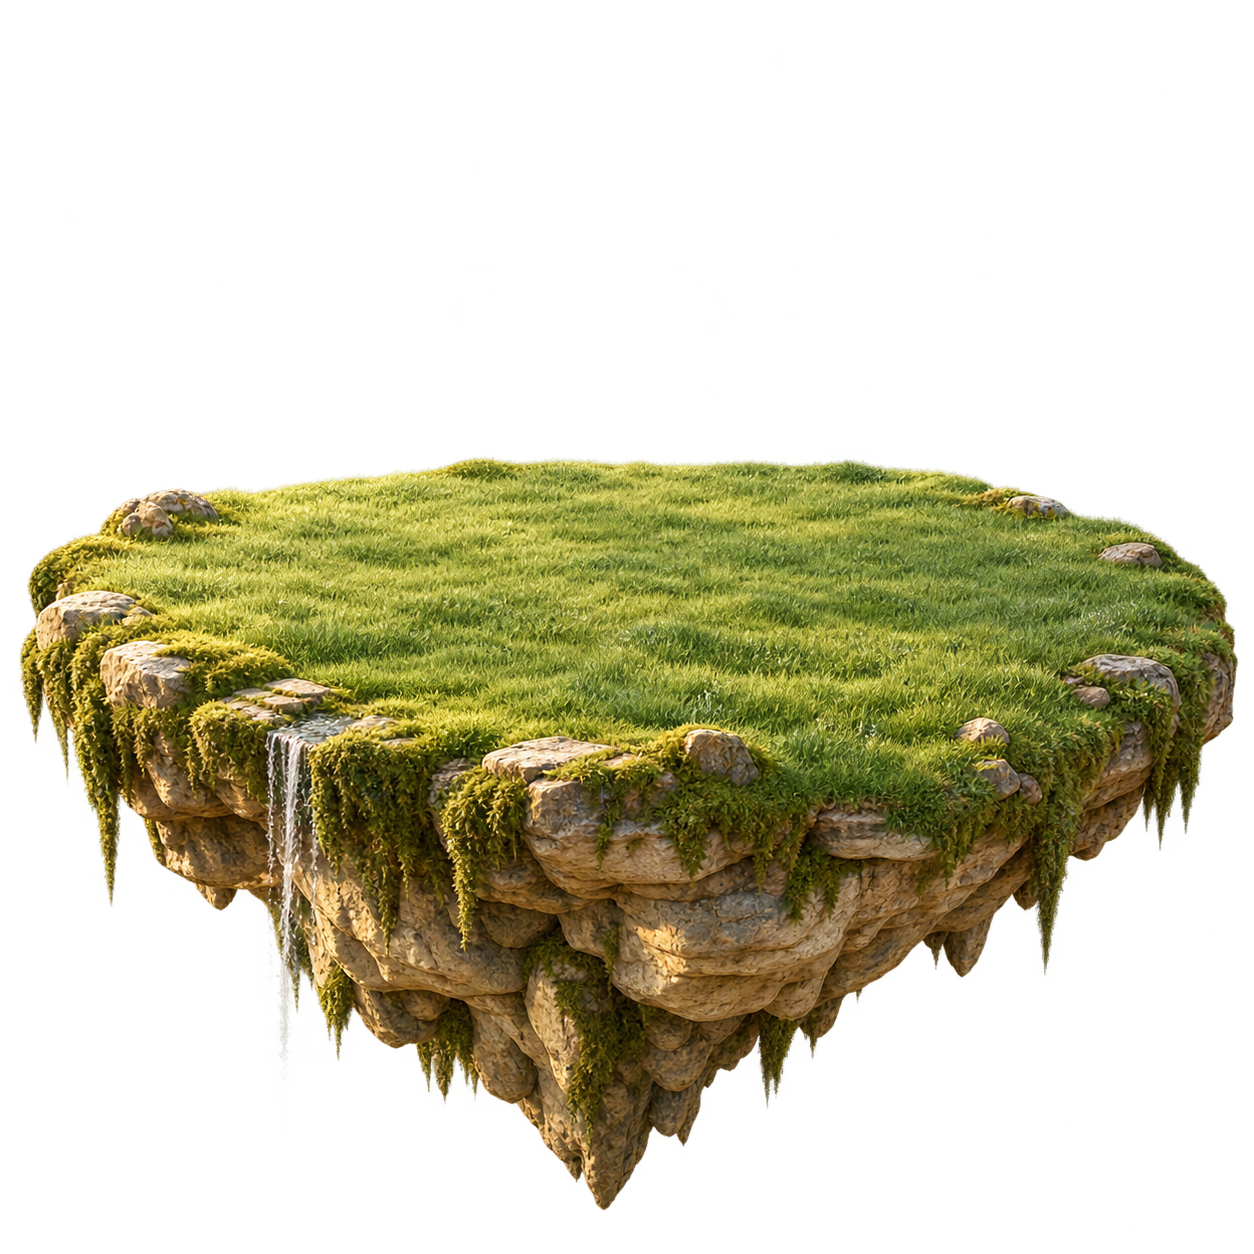
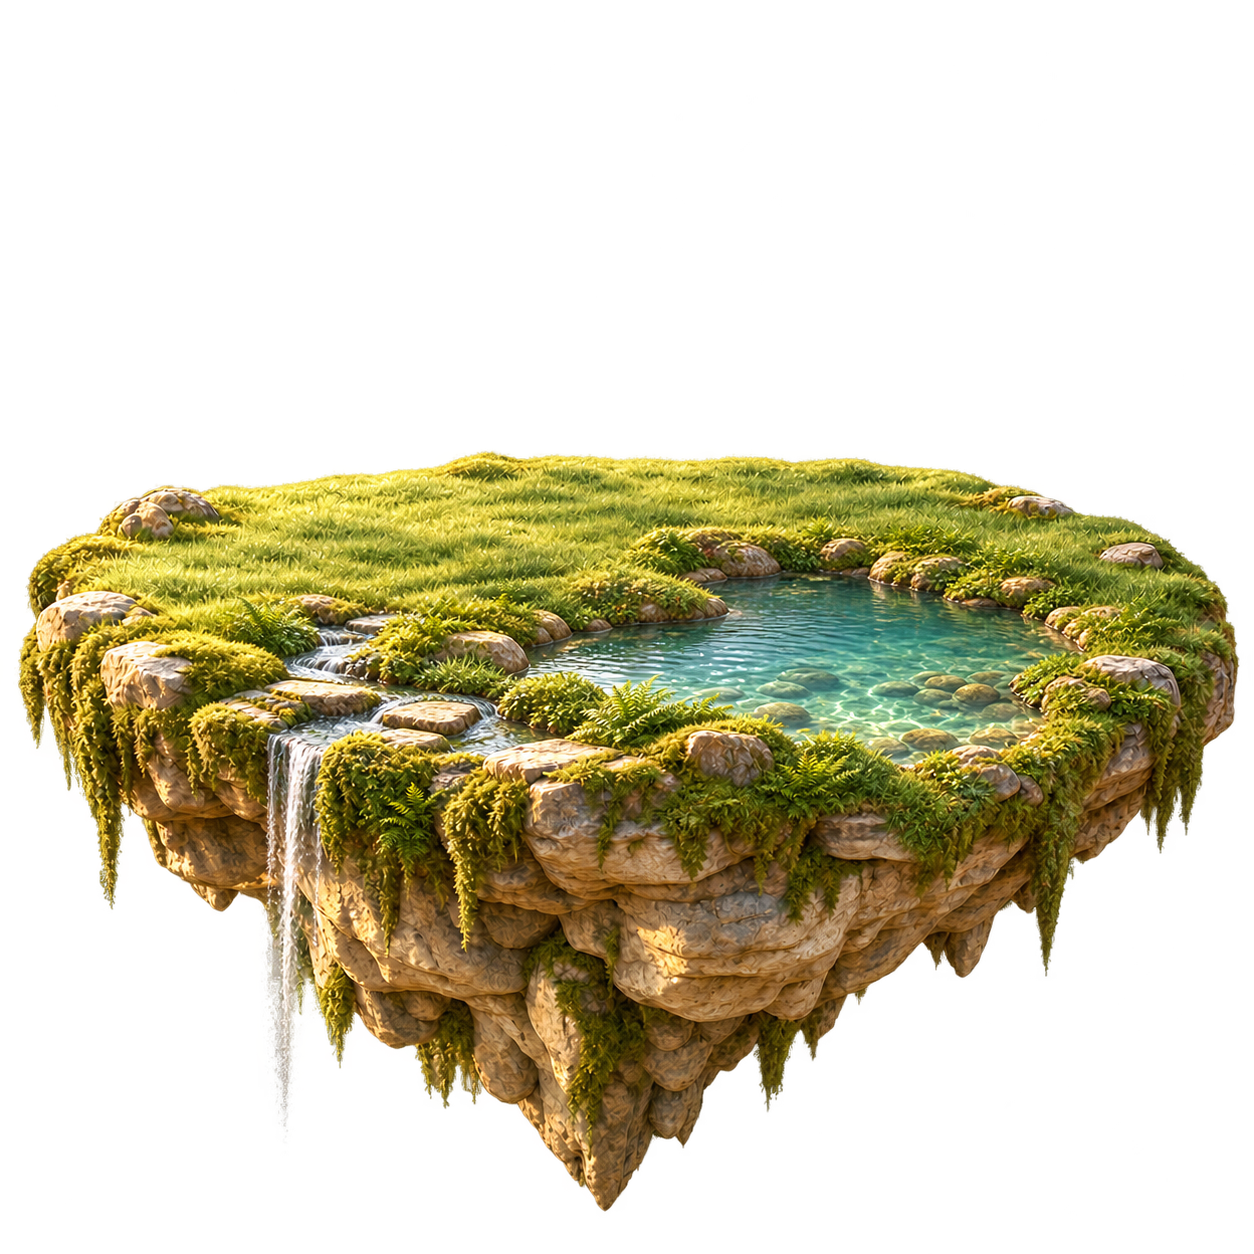
Unify the floating garden around a pond, stream and waterfall

Changed region(s): [[0.0, 0.3421, 0.9952, 0.9641]]

diff --git a/src/components/garden/FloatingGarden.tsx b/src/components/garden/FloatingGarden.tsx
@@ -26,15 +26,16 @@ export type GardenPlantVisual = {
   completions: number;
   title: string;
 };
+// Dry banks surround a shared watercourse; the center stays open to the pond.
 export const PLOTS = [
-  { x: 190, y: 245 },
-  { x: 365, y: 267 },
-  { x: 110, y: 293 },
-  { x: 275, y: 300 },
-  { x: 420, y: 292 },
-  { x: 70, y: 253 },
-  { x: 295, y: 224 },
-  { x: 190, y: 319 },
+  { x: 180, y: 238 },
+  { x: 385, y: 215 },
+  { x: 85, y: 265 },
+  { x: 230, y: 317 },
+  { x: 455, y: 283 },
+  { x: 70, y: 235 },
+  { x: 285, y: 210 },
+  { x: 350, y: 321 },
 ];
 const ART = {
   tree: require("../../../assets/garden/oak.png"),
@@ -103,11 +104,16 @@ function GrowingPlant({
 }) {
   const p = PLOTS[index]!;
   const tree = plant.kind === "tree" || plant.kind === "blossom";
-  const size =
-    (tree ? (plant.kind === "tree" ? 230 : 195) : 128) *
-    (index >= 5 ? 0.65 : 1);
+  const depth = index >= 5 ? 0.65 : 1;
+  // Keep even a mature tree inside its bank when a goal owns an edge plot.
+  const size = Math.min(
+    (tree ? (plant.kind === "tree" ? 230 : 195) : 128) * depth,
+    (2 * Math.min(p.x, 520 - p.x)) / 1.16,
+    p.y / (0.94 * 1.16),
+  );
   const sprout = plant.stage < 2;
-  const seedSize = 64 * (index >= 5 ? 0.65 : 1);
+  const youngScale = tree ? gardenGrowth(3) : 0.25 + 0.75 * gardenGrowth(3);
+  const seedSize = Math.min(64 * depth, size * youngScale * 0.9);
   const box = sprout ? seedSize : size;
   const growth = (count: number) =>
     tree ? gardenGrowth(count) : 0.25 + 0.75 * gardenGrowth(count);
@@ -163,6 +169,42 @@ function GrowingPlant({
         />
       )}
     </Animated.View>
+  );
+}
+/** Soft contact shadows join each growing plant to the same sunlit ground. */
+function PlantGround({ plants }: { plants: GardenPlantVisual[] }) {
+  return (
+    <Svg
+      pointerEvents="none"
+      accessible={false}
+      style={StyleSheet.absoluteFill}
+      width="100%"
+      height="100%"
+      viewBox="0 0 520 510"
+    >
+      <Defs>
+        <RadialGradient id="plant-contact">
+          <Stop offset="0" stopColor="#33432B" stopOpacity=".38" />
+          <Stop offset=".55" stopColor="#405336" stopOpacity=".16" />
+          <Stop offset="1" stopColor="#405336" stopOpacity="0" />
+        </RadialGradient>
+      </Defs>
+      {plants.slice(0, 8).map((plant, index) => {
+        if (!plant.stage) return null;
+        const plot = PLOTS[index]!;
+        const size = Math.min(1.1, 0.3 + gardenGrowth(plant.completions));
+        return (
+          <Ellipse
+            key={plant.id}
+            cx={plot.x + 5}
+            cy={plot.y + 1}
+            rx={36 * size}
+            ry={11 * size}
+            fill="url(#plant-contact)"
+          />
+        );
+      })}
+    </Svg>
   );
 }
 function GrowthLight({
@@ -285,7 +327,7 @@ export const FloatingGarden = React.memo(function FloatingGarden({
   return (
     <View
       accessibilityRole="image"
-      accessibilityLabel={`Your floating garden. ${summary}`}
+      accessibilityLabel={`Your floating garden. ${summary} A pond and stream flow between the grassy banks into a waterfall.`}
       style={[styles.frame, compact && styles.compact]}
     >
       <Svg
@@ -332,6 +374,34 @@ export const FloatingGarden = React.memo(function FloatingGarden({
           fadeDuration={0}
           accessibilityElementsHidden
         />
+        <Animated.View
+          pointerEvents="none"
+          style={[
+            StyleSheet.absoluteFill,
+            {
+              opacity: float.interpolate({
+                inputRange: [0, 1],
+                outputRange: [0.08, 0.3],
+              }),
+            },
+          ]}
+        >
+          <Svg
+            accessible={false}
+            width="100%"
+            height="100%"
+            viewBox="0 0 520 510"
+          >
+            <Path
+              d="M283 260 Q307 267 331 260 M300 273 Q323 280 349 273 M337 247 Q350 251 363 247"
+              fill="none"
+              stroke="#EDF6E4"
+              strokeWidth={1}
+              strokeLinecap="round"
+            />
+          </Svg>
+        </Animated.View>
+        <PlantGround plants={plants} />
         {plants
           .slice(0, 8)
           .map((plant, index) => ({ plant, index }))

diff --git a/src/components/garden/GardenHome.tsx b/src/components/garden/GardenHome.tsx
@@ -373,7 +373,7 @@ export function GardenHome({
                       styles.plantTag,
                       {
                         left: `${(PLOTS[i]!.x / 520) * 100}%`,
-                        top: `${((PLOTS[i]!.y + 15) / 510) * 100}%`,
+                        top: `${((PLOTS[i]!.y - 8) / 510) * 100}%`,
                       },
                     ]}
                   >

diff --git a/README.md b/README.md
@@ -16,7 +16,7 @@ Use Node 24.19 (see `.nvmrc`). Expo SDK 58. Copy `.env.example` to `.env` and fo
 
 ## The simple experience
 
-- A detailed floating garden begins with grass. Each goal owns a flower or tree that grows with every completed day, with new stages at 1, 3, 7 and 14 days. Each newly saved accomplishment shows its growth and a celebration. Paused goals and missed days keep earned growth; reduced-motion settings are respected.
+- A detailed floating garden begins with grass around a clear pond, stone-lined stream and waterfall. Trees and flowers share the mossy banks as they grow. Each goal owns a flower or tree that grows with every completed day, with new stages at 1, 3, 7 and 14 days. Each newly saved accomplishment shows its growth and a celebration. Paused goals and missed days keep earned growth; reduced-motion settings are respected.
 - After a voice conversation or a successful text message, users can confirm a completed goal and return to their growing garden. Recording the same goal again today never adds duplicate progress. Conversations alone do not award completions.
 - Tap the daily progress circle to mark scheduled goals complete or correct today’s entry. The circle includes extra goals completed on unscheduled days and resets daily; lifetime garden growth is calculated from saved completions.
 - **Preview garden growth** shows five sample stages and **Preview one more day** demonstrates growth between stages, without writing progress or changing the account. **Back to my garden** restores the real view.
